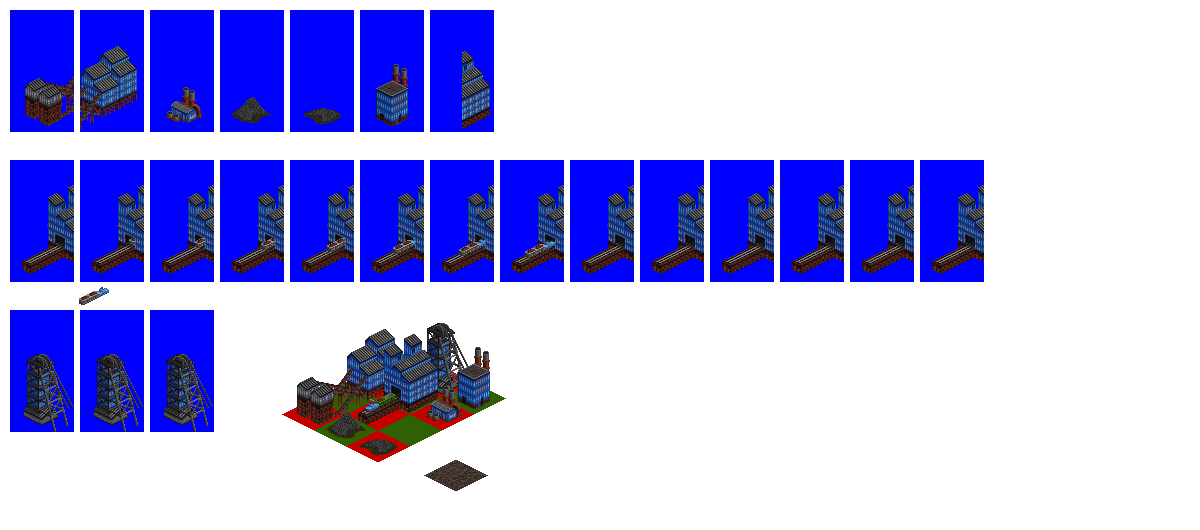
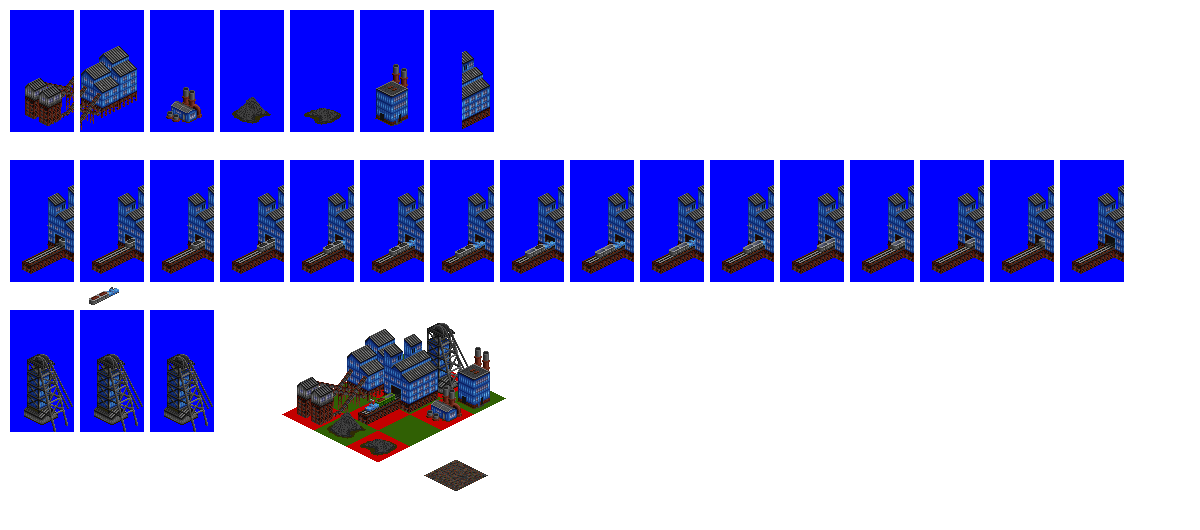
Change: adjust Manganese Mine animation and fix snow spritesheet

diff --git a/src/industries/manganese_mine.py b/src/industries/manganese_mine.py
@@ -52,7 +52,7 @@ industry.add_tile(id='manganese_mine_tile_2',
                                                      disallow_industry_adjacent=True))
 
 industry.add_tile(id='manganese_mine_tile_3',
-                  animation_length=81,
+                  animation_length=200,
                   animation_looping=True,
                   animation_speed=3,
                   custom_animation_next_frame='((animation_frame == 18) ? CB_RESULT_STOP_ANIMATION : CB_RESULT_NEXT_FRAME)',
